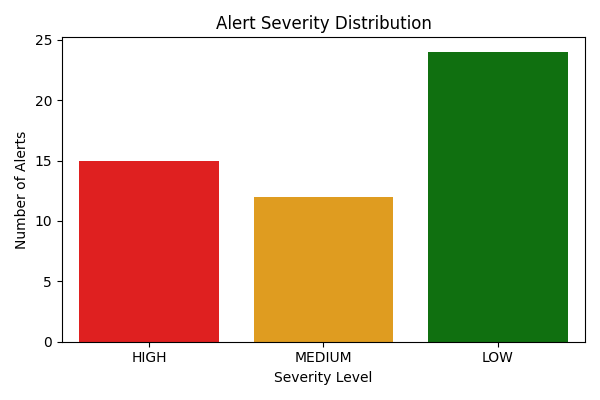
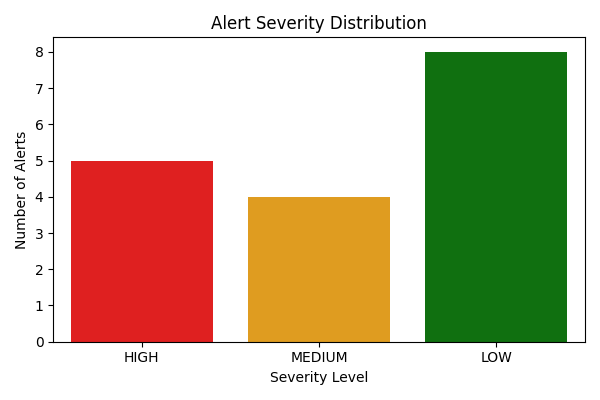
Fix alert logging and regenerate outputs

diff --git a/src/parser.py b/src/parser.py
@@ -41,6 +41,7 @@ def parse_pcap(file_path):
     return df
 
 df = parse_pcap('data/snort.log.1425572414')
+open("outputs/alerts.txt", "w").close()
 detect_portscan(df)
 detect_suspicious_ports(df)
 detect_packet_flood(df)

diff --git a/README.md b/README.md
@@ -1,0 +1,53 @@
+# Mini Intrusion Detection System (IDS)
+
+## Project Overview
+A hybrid Intrusion Detection System built in Python that analyzes 
+network traffic from PCAP files and detects suspicious activity 
+using signature-based and anomaly-based detection.
+
+Built as a cybersecurity portfolio project to demonstrate practical 
+network security and Python skills.
+
+---
+
+## Features
+
+### Signature-Based Detection
+Checks network traffic against predefined rules:
+- **Port Scan Detection** — flags IPs contacting more than 5 unique ports
+- **Suspicious Port Detection** — flags traffic to known dangerous ports (23, 21, 3389, 445)
+- **Packet Flood Detection** — flags IPs sending more than 100 packets (DoS detection)
+
+### Anomaly-Based Detection
+Uses Isolation Forest machine learning algorithm to learn normal 
+traffic patterns and flag deviations from the baseline.
+
+### Alert Engine
+Generates professional formatted alerts saved to outputs/alerts.txt 
+with severity levels (HIGH/MEDIUM/LOW) and timestamps.
+
+### Evaluation
+Measures IDS performance using:
+- Precision
+- Recall  
+- F1 Score
+- Confusion Matrix
+
+### Visualizations
+Generates charts showing:
+- Alert severity distribution
+- Top attacking IPs by packet count
+- Protocol distribution (TCP/UDP/ICMP)
+
+---
+
+## Technology Stack
+- **Python** — core programming language
+- **Scapy** — packet parsing and PCAP analysis
+- **Pandas** — data processing and feature extraction
+- **Scikit-learn** — Isolation Forest anomaly detection
+- **Matplotlib/Seaborn** — visualizations
+
+---
+
+## Project Structure